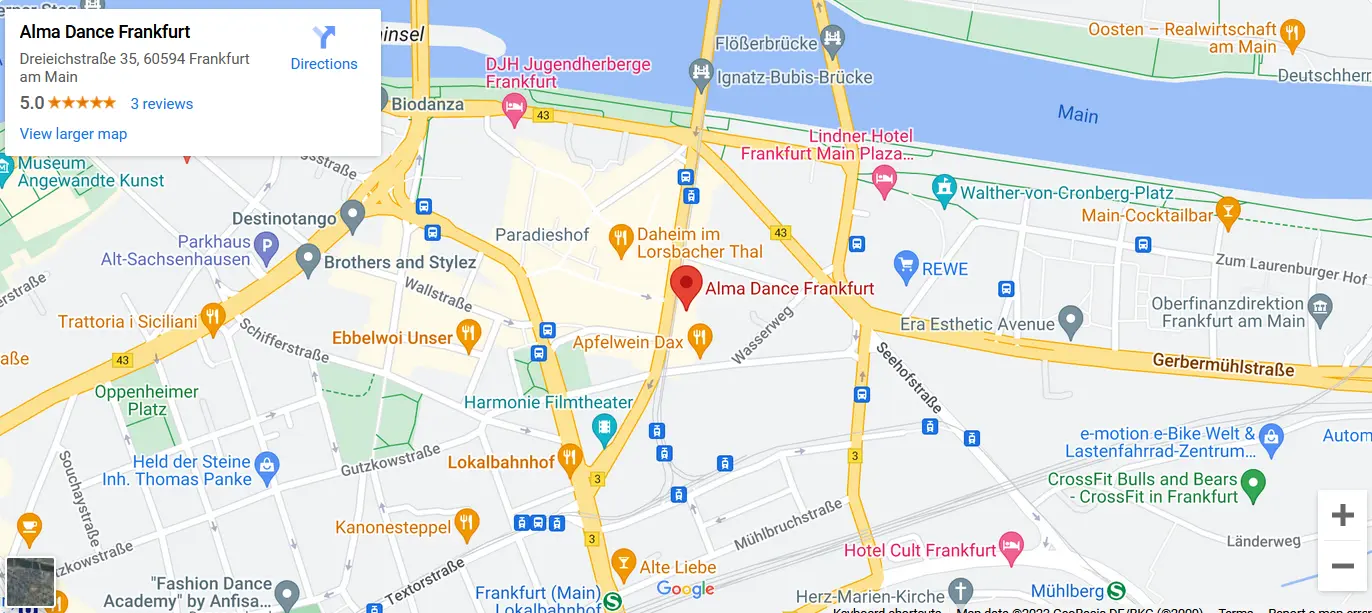
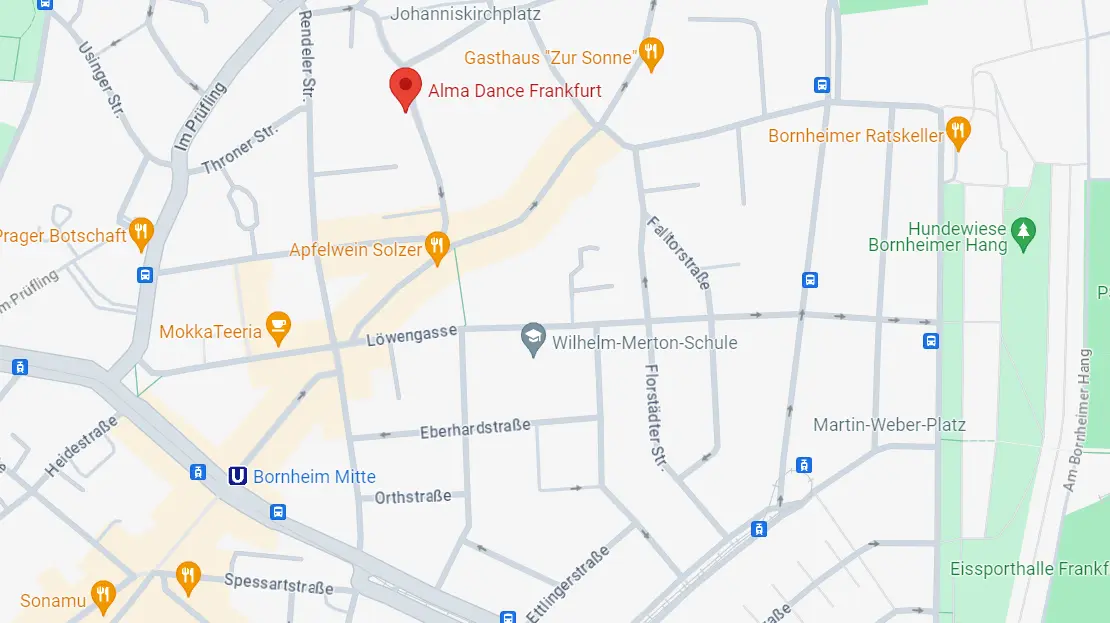
D

diff --git a/kontakt.html b/kontakt.html
@@ -387,19 +387,20 @@
                 <div class="section_title" data-aos="fade-up" data-aos-duration="1500">
                   <span class="title_badge"></span>
                   <h2><span>Standort</span></h2>
-                  <h4 class="">Dreieichstraße 35, 60594 Frankfurt am Main </p>
-                </div>
+                  <a href="https://maps.app.goo.gl/oLDcUZ7JxAanWwod9"><h4 class="">Alt-Bornheim 35, 60385 Frankfurt am Main </p></a>
+                  </div>
                 <div class="map_block row_am" data-aos="fade-in" data-aos-duration="1500">
                   <div class="container">
-                    <iframe title="Location Alma Dance" src="https://www.google.com/maps/embed?pb=!1m18!1m12!1m3!1d2558.996994696205!2d8.685250562540753!3d50.105063221409466!2m3!1f0!2f0!3f0!3m2!1i1024!2i768!4f13.1!3m3!1m2!1s0x47bd0f71905f8aff%3A0xc9a56681f6e2a1c0!2sAlma%20Dance%20Frankfurt!5e0!3m2!1sen!2sde!4v1699112897133!5m2!1sen!2sde" width="600" height="450" style="border:0;" allowfullscreen="" loading="lazy" referrerpolicy="no-referrer-when-downgrade"></iframe>
+                    <iframe title="Location Alma Dance" src="https://www.google.com/maps/embed?pb=!1m18!1m12!1m3!1d4398.778018899204!2d8.708018510485141!3d50.127860325948355!2m3!1f0!2f0!3f0!3m2!1i1024!2i768!4f13.1!3m3!1m2!1s0x47bd0f71905f8aff%3A0xc9a56681f6e2a1c0!2sAlma%20Dance%20Frankfurt!5e0!3m2!1sen!2sde!4v1709016672888!5m2!1sen!2sde" width="600" height="450" style="border:0;" allowfullscreen="" loading="lazy" referrerpolicy="no-referrer-when-downgrade"></iframe>
                   </div>
                 </div>
                 <h4>Anfahrt</h4>
-                <p>Das Studio ist sehr gut mit der U-Bahn oder der S-Bahn zu erreichen.</p>
-                <p>Die Haltestellen "Lokalbahnhof" & "Sudbanhhof" sind nur wenige Meter von unserem Hauptstandort entfernt.</p>
+                <p>Das Studio ist sehr gut mit der U-Bahn zu erreichen.</p>
+                <p>Die Haltestellen "Bornheim Mitte" & "Seckbacher Landstraße" sind nur wenige Meter von unserem Hauptstandort entfernt.</p>
               </div>
             </div>
           </section>
+
           
 <!-- PROGRAM FOTOS-Section start -->
 <section class="row_am interface_section">

diff --git a/standort.html b/standort.html
@@ -310,16 +310,16 @@
                 <div class="section_title" data-aos="fade-up" data-aos-duration="1500">
                   <span class="title_badge"></span>
                   <h2><span>Standort</span></h2>
-                  <h4 class="">Dreieichstraße 35, 60594 Frankfurt am Main </p>
-                </div>
+                  <a href="https://maps.app.goo.gl/oLDcUZ7JxAanWwod9"><h4 class="">Alt-Bornheim 35, 60385 Frankfurt am Main </p></a>
+                  </div>
                 <div class="map_block row_am" data-aos="fade-in" data-aos-duration="1500">
                   <div class="container">
-                    <iframe title="Location Alma Dance" src="https://www.google.com/maps/embed?pb=!1m18!1m12!1m3!1d2558.996994696205!2d8.685250562540753!3d50.105063221409466!2m3!1f0!2f0!3f0!3m2!1i1024!2i768!4f13.1!3m3!1m2!1s0x47bd0f71905f8aff%3A0xc9a56681f6e2a1c0!2sAlma%20Dance%20Frankfurt!5e0!3m2!1sen!2sde!4v1699112897133!5m2!1sen!2sde" width="600" height="450" style="border:0;" allowfullscreen="" loading="lazy" referrerpolicy="no-referrer-when-downgrade"></iframe>
+                    <iframe title="Location Alma Dance" src="https://www.google.com/maps/embed?pb=!1m18!1m12!1m3!1d4398.778018899204!2d8.708018510485141!3d50.127860325948355!2m3!1f0!2f0!3f0!3m2!1i1024!2i768!4f13.1!3m3!1m2!1s0x47bd0f71905f8aff%3A0xc9a56681f6e2a1c0!2sAlma%20Dance%20Frankfurt!5e0!3m2!1sen!2sde!4v1709016672888!5m2!1sen!2sde" width="600" height="450" style="border:0;" allowfullscreen="" loading="lazy" referrerpolicy="no-referrer-when-downgrade"></iframe>
                   </div>
                 </div>
                 <h4>Anfahrt</h4>
-                <p>Das Studio ist sehr gut mit der U-Bahn oder der S-Bahn zu erreichen.</p>
-                <p>Die Haltestellen "Lokalbahnhof" & "Sudbanhhof" sind nur wenige Meter von unserem Hauptstandort entfernt.</p>
+                <p>Das Studio ist sehr gut mit der U-Bahn zu erreichen.</p>
+                <p>Die Haltestellen "Bornheim Mitte" & "Seckbacher Landstraße" sind nur wenige Meter von unserem Hauptstandort entfernt.</p>
               </div>
             </div>
           </section>

diff --git a/contact.html b/contact.html
@@ -351,16 +351,16 @@
                 <div class="section_title" data-aos="fade-up" data-aos-duration="1500">
                   <span class="title_badge"></span>
                   <h2><span>Location</span></h2>
-                  <h4 class="">Dreieichstraße 35, 60594 Frankfurt am Main </p>
-                </div>
+                  <a href="https://maps.app.goo.gl/oLDcUZ7JxAanWwod9"><h4 class="">Alt-Bornheim 35, 60385 Frankfurt am Main </p></a>
+                  </div>
                 <div class="map_block row_am" data-aos="fade-in" data-aos-duration="1500">
                   <div class="container">
-                    <iframe title="Location Alma Dance" src="https://www.google.com/maps/embed?pb=!1m18!1m12!1m3!1d2558.996994696205!2d8.685250562540753!3d50.105063221409466!2m3!1f0!2f0!3f0!3m2!1i1024!2i768!4f13.1!3m3!1m2!1s0x47bd0f71905f8aff%3A0xc9a56681f6e2a1c0!2sAlma%20Dance%20Frankfurt!5e0!3m2!1sen!2sde!4v1699112897133!5m2!1sen!2sde" width="600" height="450" style="border:0;" allowfullscreen="" loading="lazy" referrerpolicy="no-referrer-when-downgrade"></iframe>
+                    <iframe title="Location Alma Dance" src="https://www.google.com/maps/embed?pb=!1m18!1m12!1m3!1d4398.778018899204!2d8.708018510485141!3d50.127860325948355!2m3!1f0!2f0!3f0!3m2!1i1024!2i768!4f13.1!3m3!1m2!1s0x47bd0f71905f8aff%3A0xc9a56681f6e2a1c0!2sAlma%20Dance%20Frankfurt!5e0!3m2!1sen!2sde!4v1709016672888!5m2!1sen!2sde" width="600" height="450" style="border:0;" allowfullscreen="" loading="lazy" referrerpolicy="no-referrer-when-downgrade"></iframe>
                   </div>
                 </div>
                 <h4>How to get there</h4>
-                <p>The studio is very easy to reach by U-Bahn.or S-Bahn.</p>
-                <p>The stop "Lokalbahnhof" & "Sudbanhhof" are only a few meters from our main Location</p>
+                <p>Das Studio ist sehr gut mit der U-Bahn zu erreichen.</p>
+                <p>Die Haltestellen "Bornheim Mitte" & "Seckbacher Landstraße" sind nur wenige Meter von unserem Hauptstandort entfernt.</p>
               </div>
             </div>
           </section>

diff --git a/location.html b/location.html
@@ -281,16 +281,16 @@
                 <div class="section_title" data-aos="fade-up" data-aos-duration="1500">
                   <span class="title_badge"></span>
                   <h2><span>Location</span></h2>
-                  <h4 class="">Dreieichstraße 35, 60594 Frankfurt am Main </p>
-                </div>
+                  <a href="https://maps.app.goo.gl/oLDcUZ7JxAanWwod9"><h4 class="">Alt-Bornheim 35, 60385 Frankfurt am Main </p></a>
+                  </div>
                 <div class="map_block row_am" data-aos="fade-in" data-aos-duration="1500">
                   <div class="container">
-                    <iframe title="Location Alma Dance" src="https://www.google.com/maps/embed?pb=!1m18!1m12!1m3!1d2558.996994696205!2d8.685250562540753!3d50.105063221409466!2m3!1f0!2f0!3f0!3m2!1i1024!2i768!4f13.1!3m3!1m2!1s0x47bd0f71905f8aff%3A0xc9a56681f6e2a1c0!2sAlma%20Dance%20Frankfurt!5e0!3m2!1sen!2sde!4v1699112897133!5m2!1sen!2sde" width="600" height="450" style="border:0;" allowfullscreen="" loading="lazy" referrerpolicy="no-referrer-when-downgrade"></iframe>
+                    <iframe title="Location Alma Dance" src="https://www.google.com/maps/embed?pb=!1m18!1m12!1m3!1d4398.778018899204!2d8.708018510485141!3d50.127860325948355!2m3!1f0!2f0!3f0!3m2!1i1024!2i768!4f13.1!3m3!1m2!1s0x47bd0f71905f8aff%3A0xc9a56681f6e2a1c0!2sAlma%20Dance%20Frankfurt!5e0!3m2!1sen!2sde!4v1709016672888!5m2!1sen!2sde" width="600" height="450" style="border:0;" allowfullscreen="" loading="lazy" referrerpolicy="no-referrer-when-downgrade"></iframe>
                   </div>
                 </div>
                 <h4>How to get there</h4>
-                <p>The studio is very easy to reach by U-Bahn.or S-Bahn.</p>
-                <p>The stop "Lokalbahnhof" & "Sudbanhhof" are only a few meters from our main Location</p>
+                <p>Das Studio ist sehr gut mit der U-Bahn zu erreichen.</p>
+                <p>Die Haltestellen "Bornheim Mitte" & "Seckbacher Landstraße" sind nur wenige Meter von unserem Hauptstandort entfernt.</p>
               </div>
             </div>
           </section>

diff --git a/index.html b/index.html
@@ -441,16 +441,16 @@
       <div class="section_title" data-aos="fade-up" data-aos-duration="1500">
         <span class="title_badge"></span>
         <h2><span>Standort</span></h2>
-        <a href="https://www.google.com/maps?ll=50.105003,8.692317&z=16&t=m&hl=en&gl=DE&mapclient=embed&cid=14530132481159635392"><h4 class="">Dreieichstraße 35, 60594 Frankfurt am Main </p></a>
+        <a href="https://maps.app.goo.gl/oLDcUZ7JxAanWwod9"><h4 class="">Alt-Bornheim 35, 60385 Frankfurt am Main </p></a>
       </div>
       <div class="map_block row_am" data-aos="fade-in" data-aos-duration="1500">
         <div class="container">
-          <a href="https://www.google.com/maps?ll=50.105003,8.692317&z=16&t=m&hl=en&gl=DE&mapclient=embed&cid=14530132481159635392"><img loading="lazy" style="max-width: 90%;cursor: pointer;" src="images/Location.webp" alt="Alma Danceschool Frankfurt Location"></a>
+          <a href="https://maps.app.goo.gl/oLDcUZ7JxAanWwod9"><img loading="lazy" style="max-width: 90%;cursor: pointer;" src="images/Location.webp" alt="Alma Danceschool Frankfurt Location"></a>
         </div>
       </div>
       <h4>Anfahrt</h4>
-      <p>Das Studio ist sehr gut mit der U-Bahn oder der S-Bahn zu erreichen.</p>
-      <p>Die Haltestellen "Lokalbahnhof" & "Sudbanhhof" sind nur wenige Meter von unserem Hauptstandort entfernt.</p>
+      <p>Das Studio ist sehr gut mit der U-Bahn zu erreichen.</p>
+      <p>Die Haltestellen "Bornheim Mitte" & "Seckbacher Landstraße" sind nur wenige Meter von unserem Hauptstandort entfernt.</p>
     </div>
   </div>
 </section>

diff --git a/home.html b/home.html
@@ -441,16 +441,16 @@
       <div class="section_title" data-aos="fade-up" data-aos-duration="1500">
         <span class="title_badge"></span>
         <h2><span>Location</span></h2>
-        <h4 class="">Dreieichstraße 35, 60594 Frankfurt am Main </p>
+        <a href="https://maps.app.goo.gl/oLDcUZ7JxAanWwod9"><h4 class="">Alt-Bornheim 35, 60385 Frankfurt am Main </p></a>
       </div>
       <div class="map_block row_am" data-aos="fade-in" data-aos-duration="1500">
         <div class="container">
-          <a href="https://www.google.com/maps?ll=50.105003,8.692317&z=16&t=m&hl=en&gl=DE&mapclient=embed&cid=14530132481159635392"><img loading="lazy" style="max-width: 90%;cursor: pointer;" src="images/Location.webp" alt="Alma Danceschool Frankfurt Location"></a>
+          <a href="https://maps.app.goo.gl/oLDcUZ7JxAanWwod9"><img loading="lazy" style="max-width: 90%;cursor: pointer;" src="images/Location.webp" alt="Alma Danceschool Frankfurt Location"></a>
         </div>
       </div>
       <h4>How to get there</h4>
-      <p>The studio is very easy to reach by U-Bahn.or S-Bahn.</p>
-      <p>The stop "Lokalbahnhof" & "Sudbanhhof" are only a few meters from our main Location</p>
+      <p>The studio is very easy to reach by U-Bahn.</p>
+      <p>The stop "Bornheim Mitte" & "Seckbacher Landstraße" are only a few meters from our main Location</p>
     </div>
   </div>
 </section>
